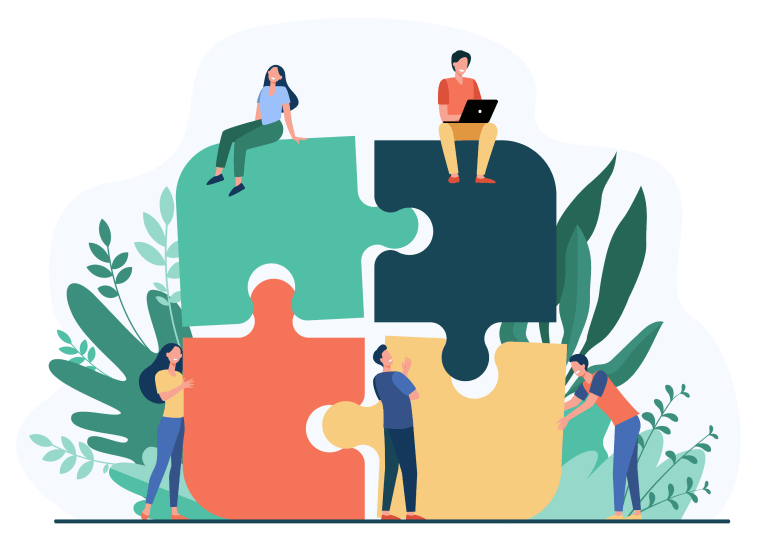
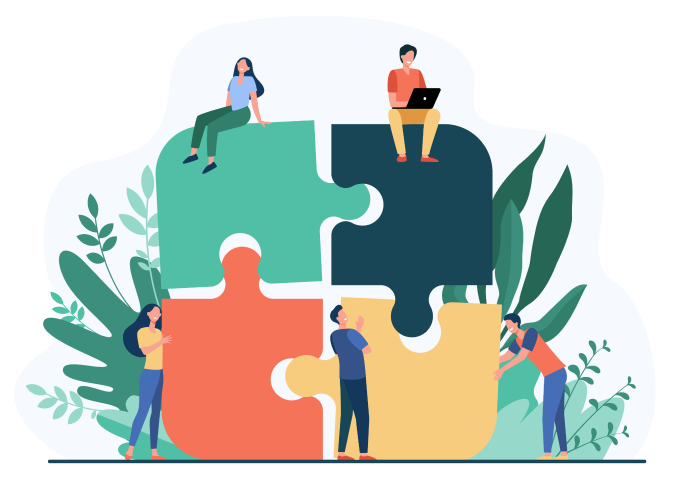
feat. add main-page all styles

Changed region(s): [[0.6195, 0.1524, 0.6504, 0.1829], [0.4956, 0.9146, 0.5265, 0.9451]]

diff --git a/src/components/main-page/mainPage.scss b/src/components/main-page/mainPage.scss
@@ -1,5 +1,9 @@
 .main-page {
-  padding: 0 12.31% 238px;
+  position: relative;
+  max-width: 1200px;
+  margin: 0 auto;
+  padding-bottom: 139px;
+  min-height: calc(100vh - 433px);
 
   &__promo {
     position: relative;
@@ -17,14 +21,14 @@
 
   &__description {
     width: 488px;
-    margin-top: 36px;
+    margin-top: 41px;
     font-size: 20px;
     font-weight: 400;
     line-height: 24px;
   }
 
   &__video-btn {
-    margin-top: 70px;
+    margin-top: 76px;
     background-color: #fff;
     border: 2px solid #323232;
 
@@ -35,13 +39,13 @@
 
   &__bg-wrapper {
     position: absolute;
-    right: 9.18%;
-    top: 298px;
+    right: 0;
+    top: 96px;
     display: flex;
     justify-content: center;
     align-items: flex-end;
-    width: 766px;
-    height: 568px;
+    width: 678px;
+    height: 492px;
     background: url(../../data/images/bg-image-main.png) no-repeat;
   }
 
@@ -50,6 +54,7 @@
     justify-content: space-between;
     flex-wrap: wrap;
     width: 577px;
+    margin-left: 19px;
   }
 
   &__nav-item {

diff --git a/src/components/header/header.scss b/src/components/header/header.scss
@@ -4,9 +4,10 @@
   display: flex;
   justify-content: space-between;
   flex-wrap: wrap;
+  max-width: 1200px;
   min-height: 130px;
-  padding: 0 12.31%;
-}
+  margin: 0 auto;
+  }
 
 .main-nav {
   display: flex;
